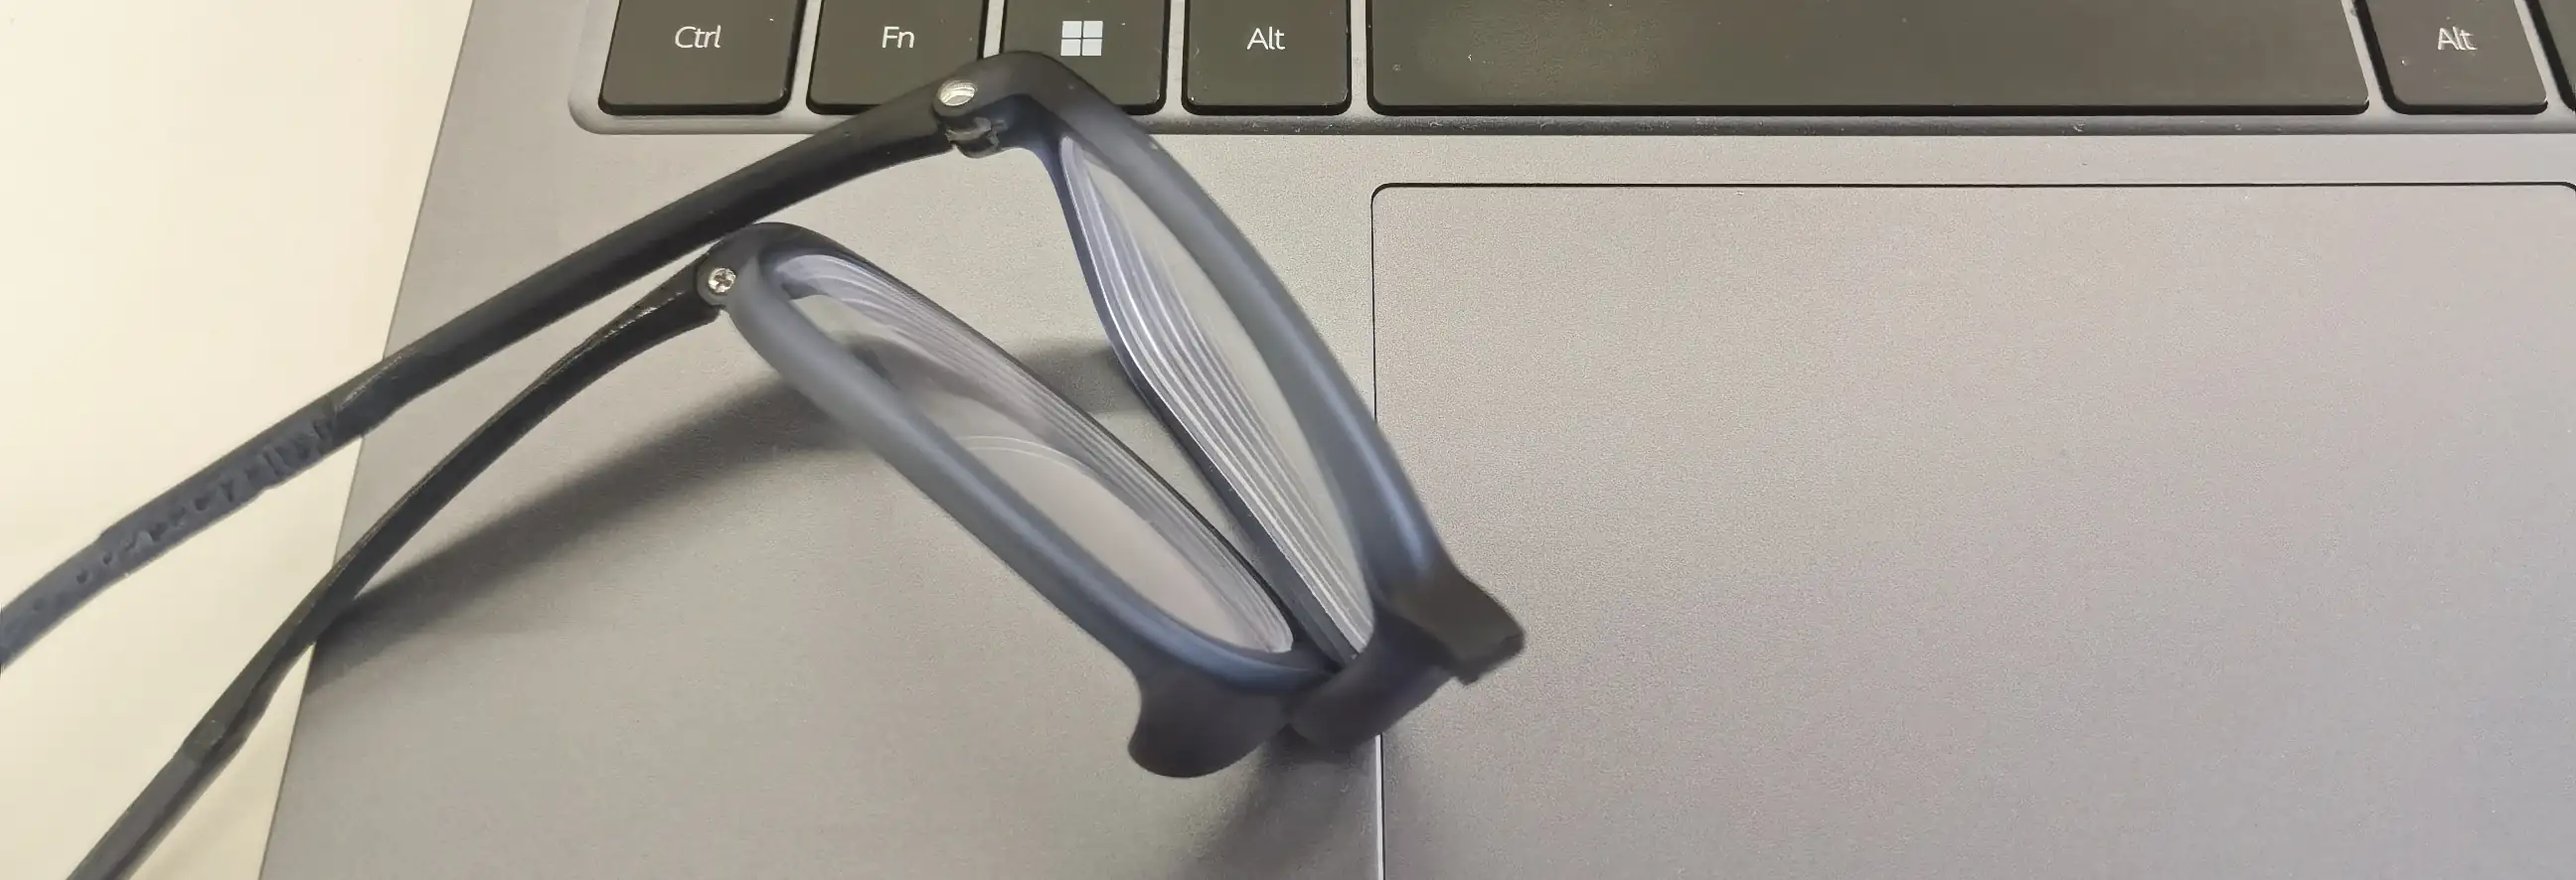
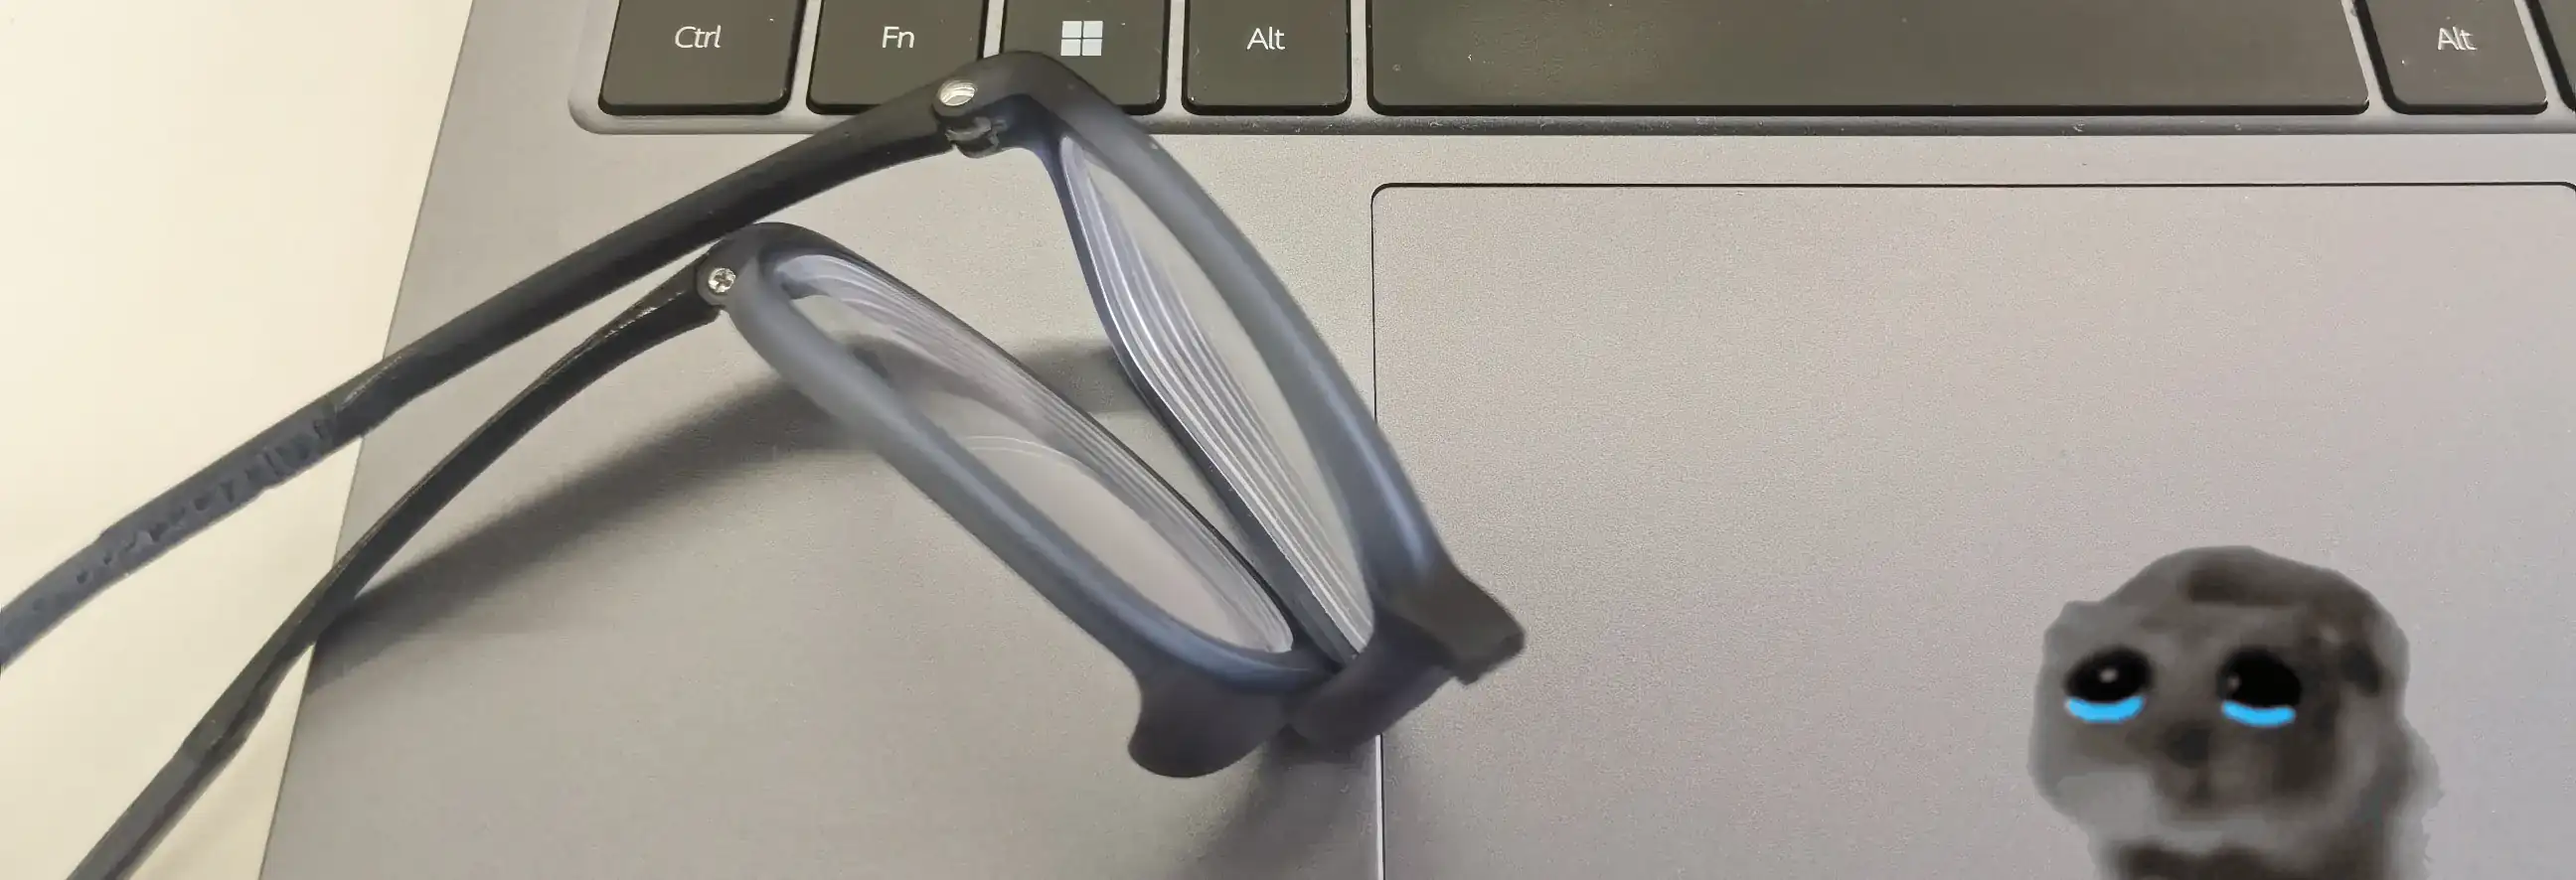
fix(nixcncon): little edits to fit

Changed region(s): [[0.7812, 0.6095, 0.9688, 1.0]]

diff --git a/src/content/essays/2508/nixcon.md b/src/content/essays/2508/nixcon.md
@@ -8,14 +8,7 @@ draft: false
 
 :::important[Summary]
 The article documents my personal experience of participating in a community conference.
-:::
-
-:::note[When Editing]
-The content was **LLM corrected**, for **structures** and **syntax**, which
-fixed plenty errors of my English. Btw, I'm planning there may
-have a [IELTS](https://ielts.org) examination in the future for myself.
-This content is my old article, I originally planned to just copy it over,
-but ended up **rewriting** almost the **entire** essay, edited on **Feb 12, 2026**.
+Therefore, I _do not intend to include too much technical content_. Just keep the _tone light_.
 :::
 
 :::tip[Preface]
@@ -26,6 +19,14 @@ dedicated to `Nix`. As I didn't take many
 photos at the time, the images used in this article may have been taken by 
 other attendees. I will provide a list of photographers in the footnotes.
 **e.g.** the first photo below was taken by [@nihui](https://t.me/nihui_szyl).
+:::
+
+:::note[When Editing]
+The content was **LLM corrected**, for **structures** and **syntax**, which
+fixed plenty errors of my English. Btw, I'm planning there may
+have a [IELTS](https://ielts.org) examination in the future for myself.
+This content is my old article, I originally planned to just copy it over,
+but ended up **rewriting** almost the **entire** essay, edited on **Feb 12, 2026**.
 :::
 
 ---
@@ -59,6 +60,10 @@ although hesitated for a long time, I think, _just go for it_.
 After all, I’m still a student, it’s okay to embarrass myself a little. 
 **I might as well use up all the awkward moments I’d have in the future 
 ahead of time**, and, :spoiler[**it’s even(?) a gain**].
+
+Eventually I decided. _This was once revealed to me in a dream **:)**_
+
+![dream.jpg](patch/dream.webp)
 
 I told my parents about it, and to my surprise, they agreed **right away**!
 and were unusually excited. Maybe it’s because I’m not like other high 
@@ -125,7 +130,7 @@ there was a [_**Loongson**_](https://www.loongson.cn/product/show?id=26)[^3]
 **playing Minecraft**, which I hadn't expected at all. And, amidst **this 
 linux con**, **I brought a Windows laptop**. Uh... maybe if I just keep 
 `Tailscale` SSHing into my workstation, nobody will notice. _Em mm, 
-I hope._ :spoiler[Fine, I got caught later.]
+I hope._ :spoiler["Wow, an undercover agent."]
 
 [^3]: [_**Loongson**_](https://en.wikipedia.org/wiki/Loongson) is a leading _Chinese 
 brand_ of homegrown general purpose CPUs. It has built the independent `LoongArch`
@@ -142,10 +147,27 @@ it, didn't work. I'm not sure if it's a hardware problem because... actually
 the instability only happens on `NixOS` :spoiler[LMAO]. Really reproducible, bro.
 :::
 
+## Take the Subway
+
+<div style="text-align: center;"><i>Yes, I use a <b>COMPASS</b> to figure out which subway I should take.</i></div>
+<div style="text-align: center;"><i>...</i></div>
+<div style="text-align: center;"><i>Just about passable for now. Uh, perfect to use as embarrassing dirt.</i></div>
+
 ---
 
 # Ownership Moved to Main
 It's **Rust** Calling! ~~Oops, wrong script.~~
+
+:::tip[What's Nix?]
+A functional package management ecosystem for perfectly reproducible, rollback-ready environments. Its core components:
+
+| Component | Description                                                                    |
+|-----------|--------------------------------------------------------------------------------|
+| `Nix`     | _The underlying functional language & package manager_                         |
+| `Nixpkgs` | _As the name, also the world's largest monolithic software package repository_ |
+| `NixOS`   | _A Linux distribution built entirely around Nix, more originally reproducible_ |
+:::
+
 ## Routines and Arrangements
 ### Day 1
 1.  **09:30** On-site check-in and registration
@@ -186,7 +208,26 @@ current **personal** thoughts on [Nix](https://nixos.org/),
 As for the various knowledge and information provided during the agenda, 
 you can find it all [here](https://nixos.party/).
 
-Nix is a great fit for scientific research work[^4] and people 
+If it was said that _**Gentoo Linux**_ has grown up alongside me, then, 
+<div style="text-align: center;"><i><b>K.I.S.S.</b> we will also crash and burn together, too. </i></div>
+
+_In the final moments, it will be just like this:_
+
+$$
+\mathit{\mathbf{\exists DepsChains_{mess}\triangleright Chaos\S Rm*}}
+$$
+
+_**Each** standalone `Nix` declaration file_ corresponds to _**one** system environment_.
+This also gives it unique vitality when users have multiple devices or complex working scenarios.
+With `Nix`, the situation above can be effectively prevented. 
+System crashed? Just select a hash entry and roll back.
+Got a new computer? Just run:
+
+```shell title="Build && RollBack"
+doas nixos-rebuild switch --flake /path/to/your/flake#your-hostname
+```
+
+`Nix` is a great fit for scientific research work[^4] and people 
 who love tinkering, esp. those into ricing who are still Linux hopping 
 (_no offense intended_). Rollbacks are incredibly convenient, and its strong
 declarative design makes **syncing environments across multiple machines** 
@@ -220,6 +261,11 @@ Of course, there are also some special cases, like
 the **author** of 
 [**_The Nix & Flakes Book_**](https://nixos-and-flakes.thiscute.world/).
 
+By the way, I also highly recommend **Ryan Yin**'s 
+[**_The Nix & Flakes Book_**](https://nixos-and-flakes.thiscute.world/)
+It is the perfect choice for getting started with `Nix`,
+which is an unofficial, beginner-friendly.
+
 ![ryan.webp](offwego/ryan.webp)
 
 :::important[Translation in `YAML`]
@@ -244,10 +290,10 @@ messages:
 :::
 
 ![ryan_lt.webp](patch/ryan_lt.webp)
-_(above is **Ryan Yin**'s laptop)_
+_(above is **Ryan Yin**'s laptop, photo taken by **Ryan Yin**)_
 
 From community side,
-contributors to the Nix community come from all over the world.
+contributors to the `Nix` community come from all over the world.
 Due to inconsistent review quality, some packages with strong
 **regional** characteristics may not be well understood by others.
 As a result, some **poorly** packaged versions can be merged into
@@ -366,17 +412,17 @@ and unsurprisingly, :spoiler[_**glasses broken then, from the middle btw**_].
 
 ---
 
-# Time to Go Home
+# Time to Go Back
 
-I managed to take a few photos before leaving, the opportunity was hard to come by.
+I took a few photos before I left. Opportunities like this don’t come easy for me.
 ![shanghai.webp](offwego/shanghai.webp)
 
-It's only been two days, but it feels like torture. 
-Even though I came here at first to push myself and 
-get some experience, there was barely any interaction
-at all. It really broadened my horizons, though.
+Two days only. It felt like torture the whole time. I came here to push myself,
+to get over this fear, to talk to people. I failed. Barely a word out of my 
+mouth the entire time. But even so. It really did broaden my horizons.
 
-I think I need to step something up next time, :spoiler[if able to have], _*sigh_.
+I know I need to step up. Next time.
+:spoiler[If there even is a next time] *sigh.
 
 ---
 
